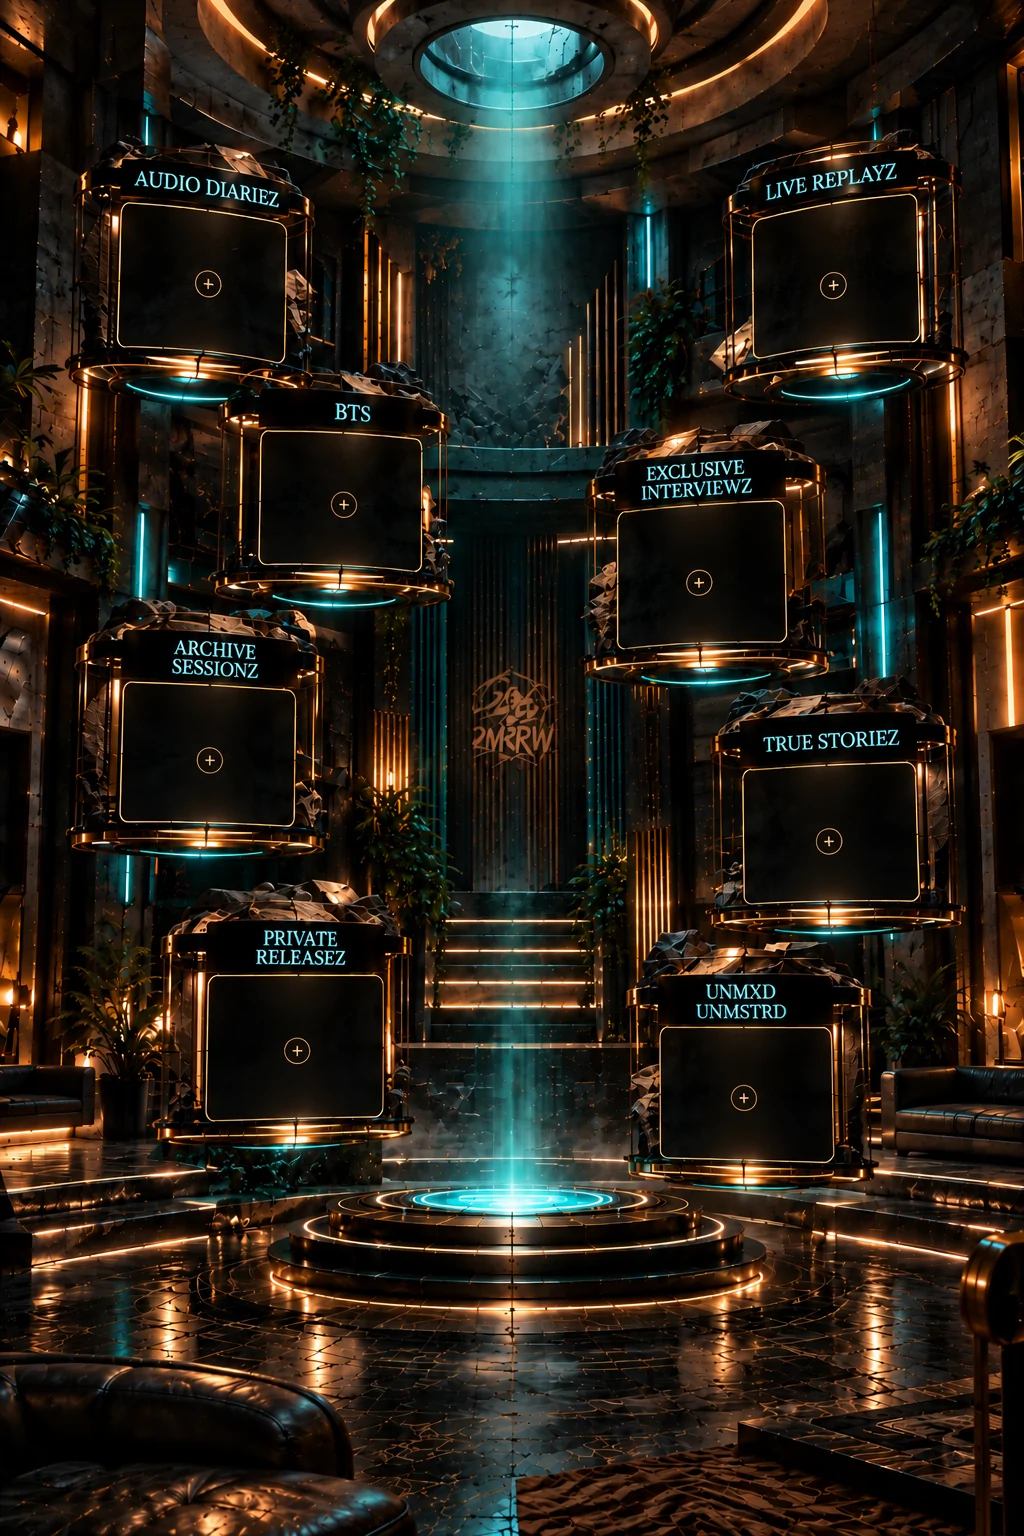
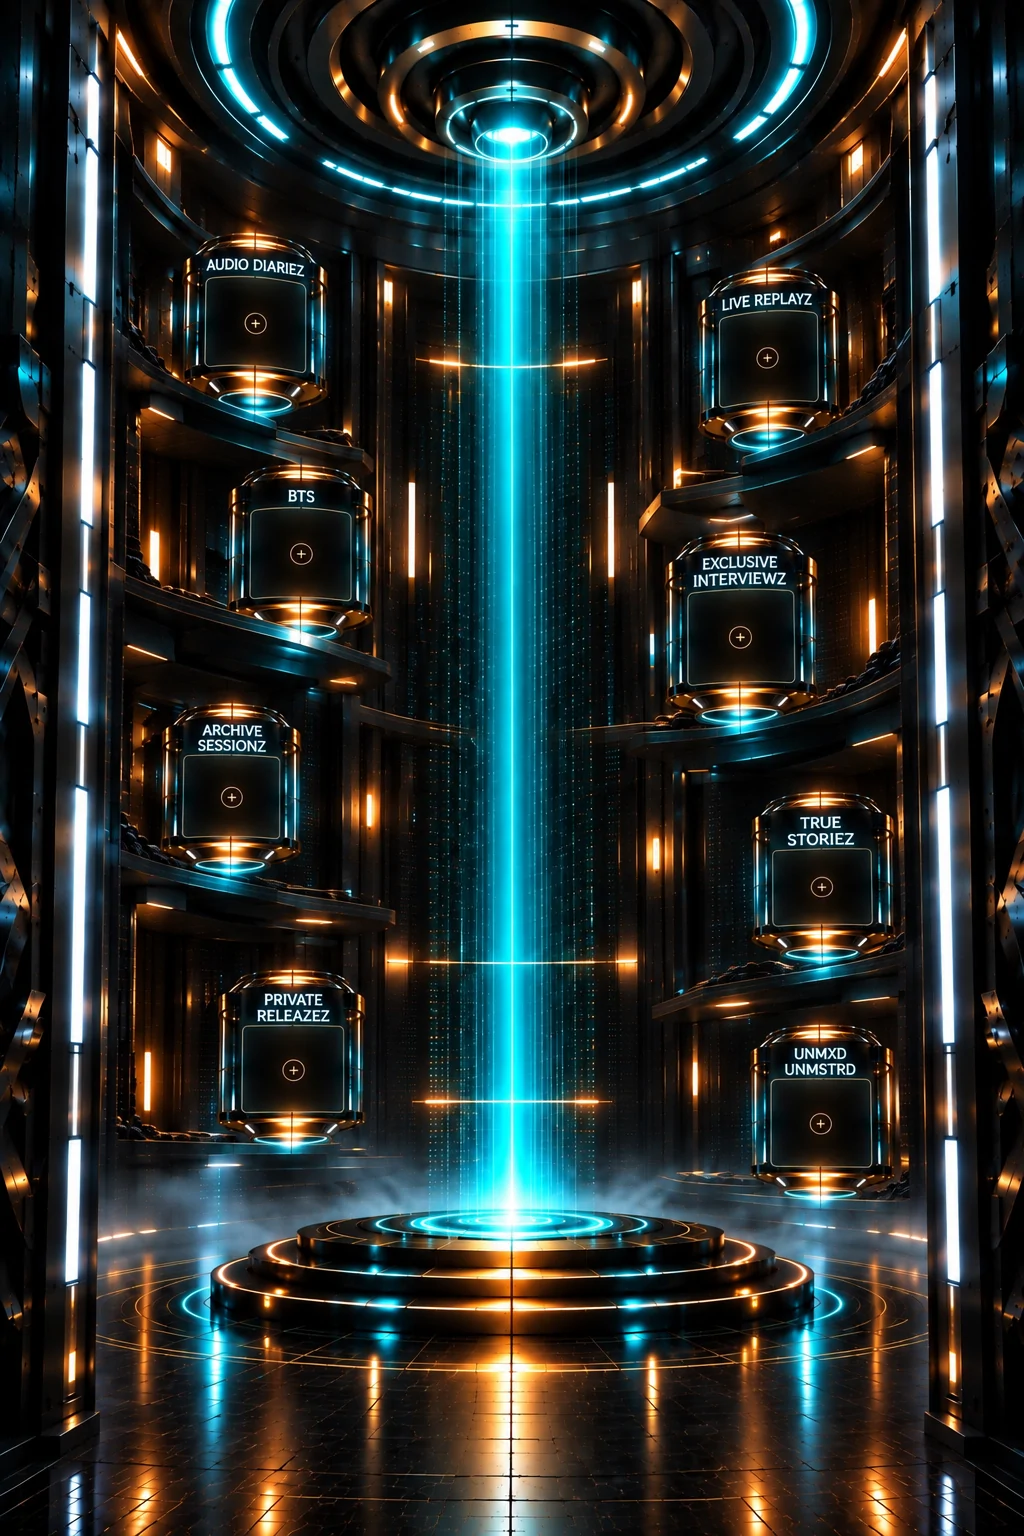
feat(vault): matching landscape + portrait chambers, standalone pod asset
Both chambers are now the same room in the same lighting, authored as a
matched pair: the 3:2 landscape for horizontal viewports (foldable opened,
tablet on its side, desktop) and the 2:3 portrait for upright ones. Held
upright a tablet gets the portrait chamber, which is the behaviour the
orientation switch already gave us, so that logic stays as it was.

The landscape chamber now carries the same eight vault_content.category
names the portrait one does, and its centre slot is gone -- like the
portrait chamber, the middle is the stage a section gets summoned onto
rather than a target of its own. Pod positions measured against both
pieces of art and hit targets resized to the pods they cover.

Also lands pod.webp: the single pod rendered standalone with alpha and a
blank screen. Nothing uses it yet -- it is what the summon animation will
move to the centre stage, and it is the one asset that cannot be cut out
of a finished chamber render after the fact.

diff --git a/apps/web/src/components/vault/VaultDoorGate.jsx b/apps/web/src/components/vault/VaultDoorGate.jsx
@@ -23,16 +23,16 @@ const CHAMBERS = {
   wide: {
     src: "/vault/vault-chamber.webp",
     className: "vault-door-gate__chamber-frame--wide",
-    core: { id: "core", label: "Centerpiece", x: 50, y: 44.4 },
+    core: null,
     slots: [
-      { id: "music", label: "Music", x: 22.3, y: 32.4 },
-      { id: "videos", label: "Videos", x: 37.8, y: 30.0 },
-      { id: "exclusive", label: "Exclusive", x: 62.2, y: 29.5 },
-      { id: "projects", label: "Projects", x: 77.9, y: 32.4 },
-      { id: "photos", label: "Photos", x: 21.3, y: 58.6 },
-      { id: "archive", label: "Archive", x: 33.3, y: 53.2 },
-      { id: "studio", label: "Studio", x: 66.5, y: 52.9 },
-      { id: "downloads", label: "Downloads", x: 78.4, y: 58.3 },
+      { id: "audio-diariez", label: "Audio Diariez", x: 20.7, y: 19.5 },
+      { id: "live-replayz", label: "Live Replayz", x: 79.6, y: 19.5 },
+      { id: "behind-the-scenez", label: "Behind the Scenez", x: 30.6, y: 34.5 },
+      { id: "exclusive-interviewz", label: "Exclusive Interviewz", x: 69.7, y: 36.0 },
+      { id: "archive-sessionz", label: "Archive Sessionz", x: 18.9, y: 50.0 },
+      { id: "true-storiez", label: "True Storiez", x: 80.5, y: 49.5 },
+      { id: "private-releasez", label: "Private Releasez", x: 28.6, y: 67.0 },
+      { id: "unmxd-unmstrd", label: "UNMXD UNMSTRD", x: 71.6, y: 67.0 },
     ],
   },
   /* The centre is deliberately empty here: it is the stage a section gets
@@ -45,14 +45,14 @@ const CHAMBERS = {
     className: "vault-door-gate__chamber-frame--tall",
     core: null,
     slots: [
-      { id: "audio-diariez", label: "Audio Diariez", x: 20.5, y: 18.5 },
-      { id: "live-replayz", label: "Live Replayz", x: 83.0, y: 18.5 },
-      { id: "behind-the-scenez", label: "Behind the Scenez", x: 34.5, y: 33.0 },
-      { id: "exclusive-interviewz", label: "Exclusive Interviewz", x: 70.5, y: 37.5 },
-      { id: "archive-sessionz", label: "Archive Sessionz", x: 20.5, y: 49.5 },
-      { id: "true-storiez", label: "True Storiez", x: 82.5, y: 54.5 },
-      { id: "private-releasez", label: "Private Releasez", x: 29.0, y: 68.5 },
-      { id: "unmxd-unmstrd", label: "UNMXD UNMSTRD", x: 73.5, y: 71.0 },
+      { id: "audio-diariez", label: "Audio Diariez", x: 24.9, y: 20.8 },
+      { id: "live-replayz", label: "Live Replayz", x: 75.4, y: 23.2 },
+      { id: "behind-the-scenez", label: "Behind the Scenez", x: 29.0, y: 35.5 },
+      { id: "exclusive-interviewz", label: "Exclusive Interviewz", x: 72.8, y: 40.5 },
+      { id: "archive-sessionz", label: "Archive Sessionz", x: 22.7, y: 51.4 },
+      { id: "true-storiez", label: "True Storiez", x: 79.6, y: 57.6 },
+      { id: "private-releasez", label: "Private Releasez", x: 28.8, y: 69.2 },
+      { id: "unmxd-unmstrd", label: "UNMXD UNMSTRD", x: 79.8, y: 72.3 },
     ],
   },
 };
